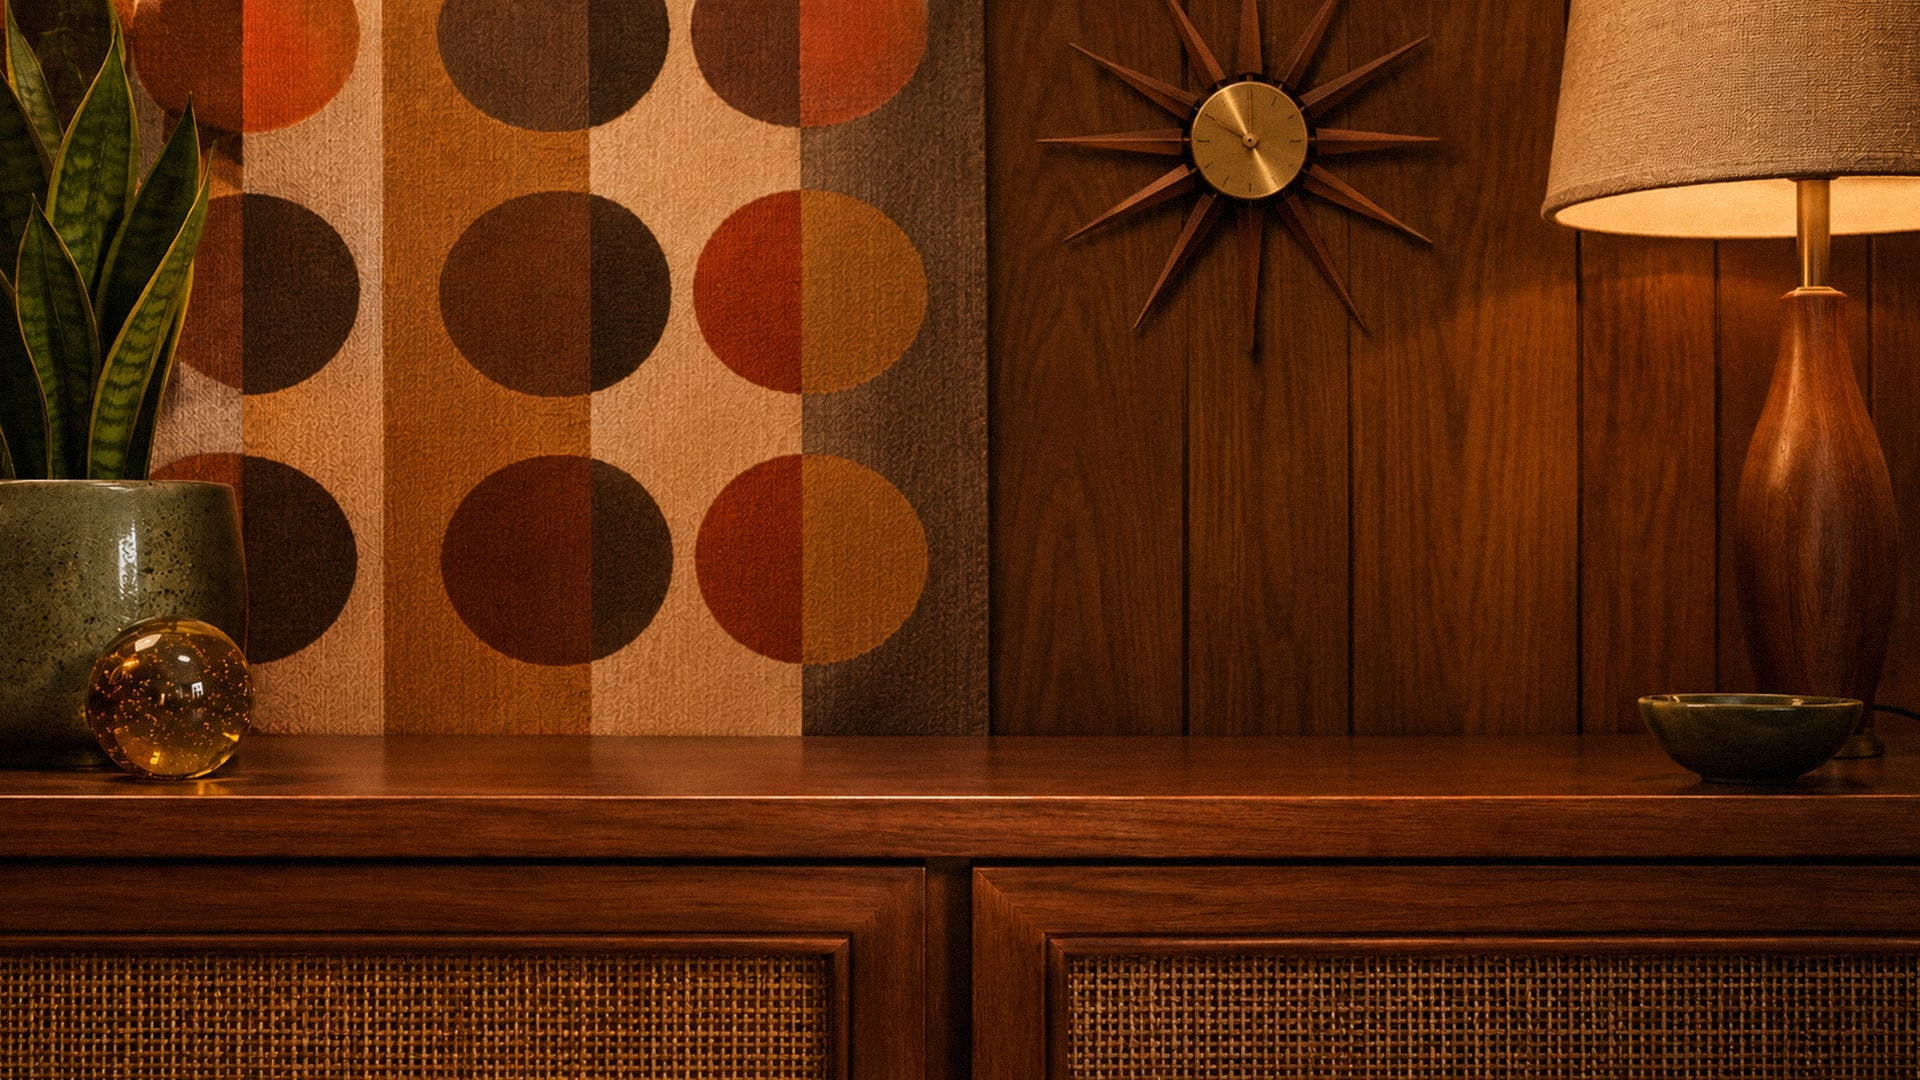
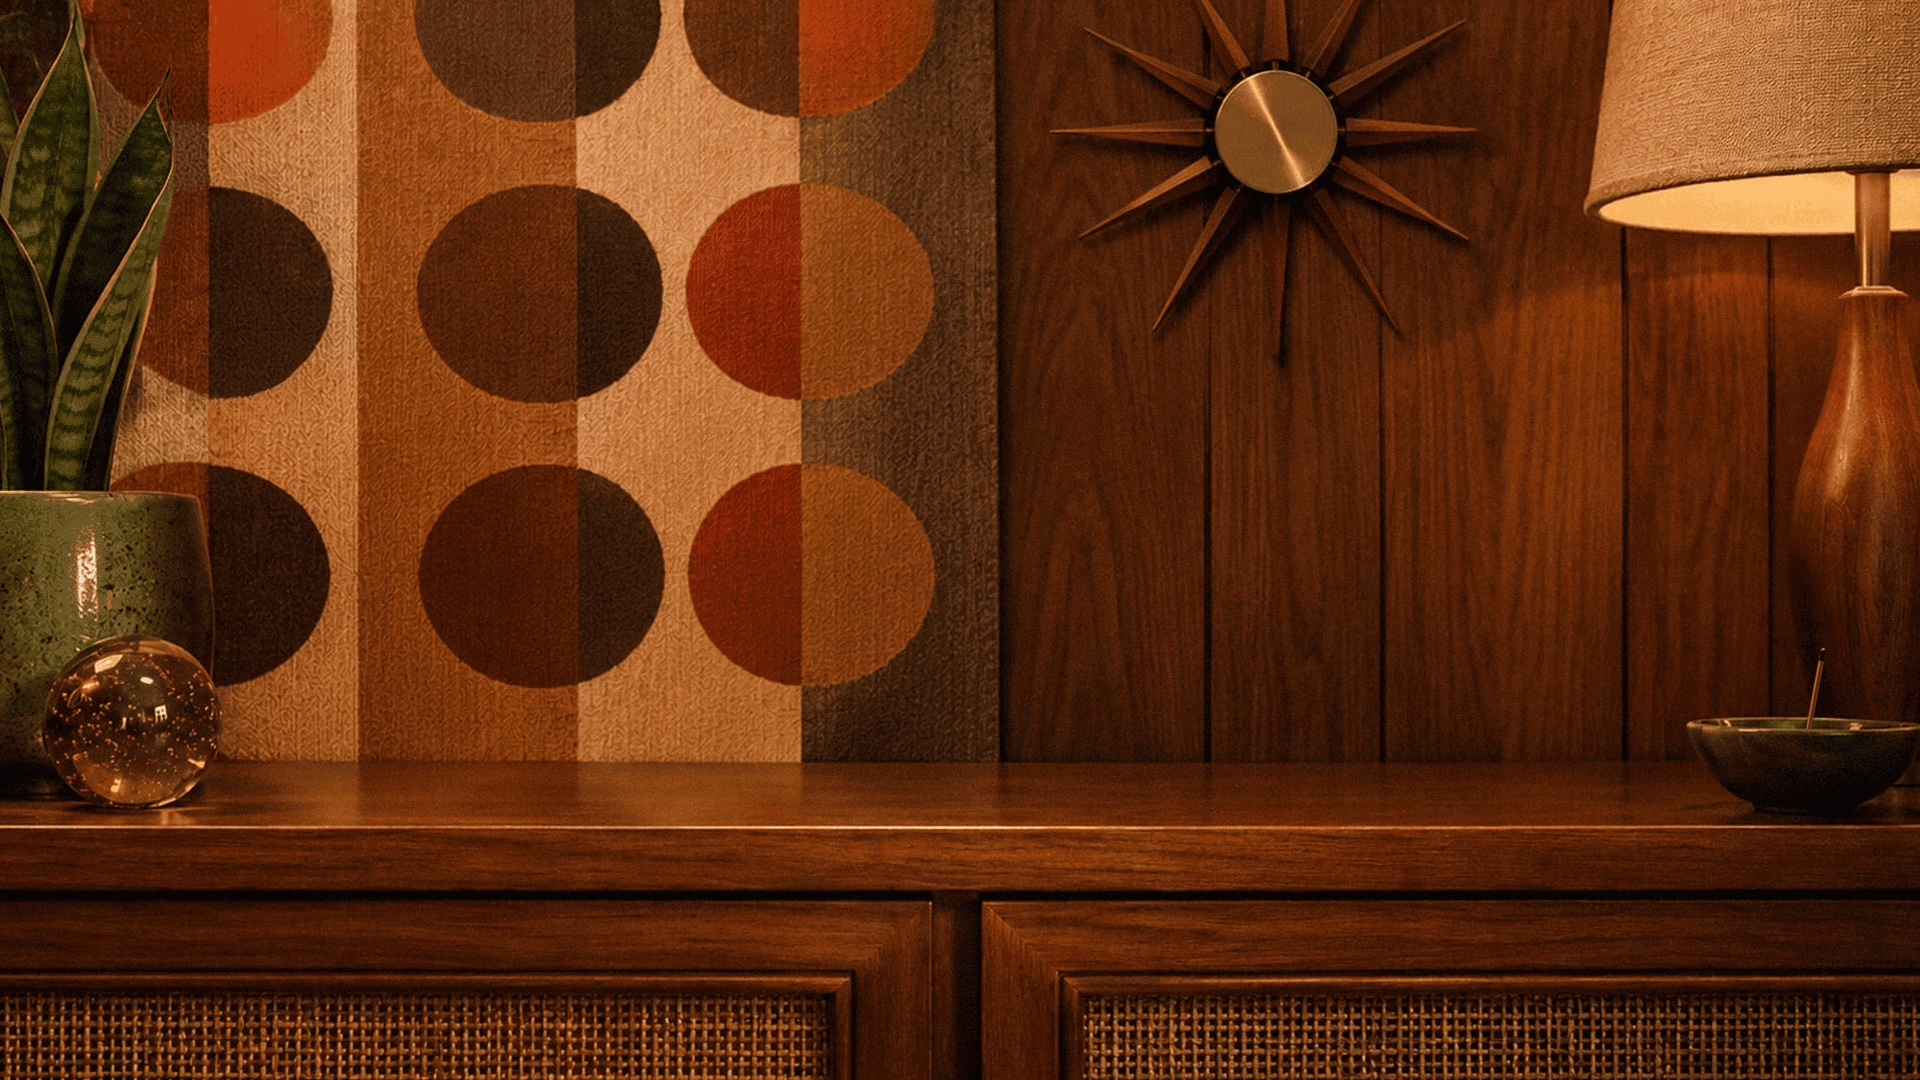
deploy: 2026-09-26 13:28

diff --git a/public/player/index.html b/public/player/index.html
@@ -64,6 +64,15 @@ html, body {
 #ticker-text { white-space: nowrap; font-family: monospace; font-size: 14px; text-transform: uppercase; letter-spacing: 0.15em; color: #23bf91; text-shadow: 0 0 8px rgba(35,191,145,0.6); line-height: 1; }
 #tuner-tick { position: absolute; top: 133px; width: 4px; height: 38px; background: #ff3333; z-index: 3; transition: left 0.6s cubic-bezier(0.25,0.1,0.25,1); box-shadow: 1px 2px 4px rgba(0,0,0,0.55), 0 1px 2px rgba(0,0,0,0.35); }
 #faceplate { position: absolute; left: 0; top: 0; width: 1280px; height: 443px; z-index: 2; pointer-events: none; display: block; }
+/* Backdrop scene decor — real-time wall clock + incense smoke. Only meaningful in
+   Backdrop Mode (the room scene); popout mode hides the whole backdrop already,
+   so these ride along with it. */
+#clock-hand-hour, #clock-hand-minute { position: absolute; left: 1267px; top: 123px; width: 18px; height: auto; transform-origin: 9px 9px; pointer-events: none; }
+#clock-hand-hour { z-index: 1; }
+#clock-hand-minute { z-index: 2; }
+#clock-hub { position: absolute; left: 1263px; top: 119px; width: 26px; height: 26px; z-index: 3; pointer-events: none; }
+#incense-smoke { position: absolute; left: 1702px; top: 250px; width: 240px; height: 420px; z-index: 1; pointer-events: none; }
+#scene.popout-mode .backdrop-fx { display: none !important; }
 </style>
 </head>
 <body oncontextmenu="return false;">
@@ -98,6 +107,10 @@ html, body {
     <div class="hit" id="hz-mono"          style="left:416px;top:343px;width:28px;height:27px"></div>
     <div class="hit" id="hz-power"         style="left:1130px;top:293px;width:30px;height:28px"></div>
     </div>
+    <img id="clock-hand-hour" class="backdrop-fx" src="./wjrn-clock-hand-small.png" alt="">
+    <img id="clock-hand-minute" class="backdrop-fx" src="./wjrn-clock-hand-large.png" alt="">
+    <img id="clock-hub" class="backdrop-fx" src="./wjrn-clock-centerpoint.png" alt="">
+    <canvas id="incense-smoke" class="backdrop-fx" width="240" height="420"></canvas>
   </div>
 </div>
 <script>
@@ -340,6 +353,83 @@ function drawVU() {
   ctx.lineWidth = 2;
   ctx.stroke();
 }
+
+// ── ANALOG WALL CLOCK (backdrop scene — real viewer-device time) ──────────────
+// Hand art's neutral (0deg) pose points straight down (pivot dot near the top of
+// each image), i.e. 180deg in standard clockface-degree terms (0=12, measured
+// clockwise) — so the CSS rotation needed is always (clockAngle - 180). Angles
+// are computed fresh each tick (no CSS transition) rather than incrementally, so
+// there's nothing to snap backward through at the 59->0 minute/hour wrap.
+function updateClockHands() {
+  var now = new Date();
+  var h = now.getHours() % 12;
+  var m = now.getMinutes();
+  var s = now.getSeconds();
+  var minuteHand = document.getElementById('clock-hand-minute');
+  var hourHand = document.getElementById('clock-hand-hour');
+  if (minuteHand) minuteHand.style.transform = 'rotate(' + ((6 * m + 0.1 * s) - 180) + 'deg)';
+  if (hourHand) hourHand.style.transform = 'rotate(' + ((30 * h + 0.5 * m) - 180) + 'deg)';
+}
+updateClockHands();
+setInterval(updateClockHands, 1000);
+
+// ── INCENSE SMOKE (backdrop scene) ────────────────────────────────────────────
+// Lightweight canvas particle wisp: soft radial-gradient puffs spawned at the
+// incense tip, drifting upward with sine wobble, growing and fading over their
+// lifetime. Purely decorative — runs independent of audio/playback state.
+(function() {
+  var canvas = document.getElementById('incense-smoke');
+  if (!canvas) return;
+  var ctx = canvas.getContext('2d');
+  var W = canvas.width, H = canvas.height;
+  var originX = W / 2, originY = H - 4;
+  var particles = [];
+  var lastSpawn = 0;
+
+  function spawnParticle(ts) {
+    particles.push({
+      x: originX + (Math.random() * 6 - 3),
+      wobblePhase: Math.random() * Math.PI * 2,
+      wobbleSpeed: 0.5 + Math.random() * 0.5,
+      radius: 3 + Math.random() * 2,
+      maxRadius: 20 + Math.random() * 14,
+      alpha: 0.16 + Math.random() * 0.08,
+      born: ts,
+      life: 3200 + Math.random() * 1800
+    });
+  }
+
+  function drawSmoke(ts) {
+    requestAnimationFrame(drawSmoke);
+    if (!lastSpawn) lastSpawn = ts;
+    if (ts - lastSpawn > 220) {
+      spawnParticle(ts);
+      lastSpawn = ts;
+    }
+    ctx.clearRect(0, 0, W, H);
+    for (var i = particles.length - 1; i >= 0; i--) {
+      var p = particles[i];
+      var age = ts - p.born;
+      var t = age / p.life;
+      if (t >= 1) { particles.splice(i, 1); continue; }
+      var riseY = t * (H - 40);
+      var wob = Math.sin(p.wobblePhase + age * 0.0016 * p.wobbleSpeed * 10) * (10 + t * 26);
+      var x = p.x + wob;
+      var y = originY - riseY;
+      var r = p.radius + t * p.maxRadius;
+      var alpha = p.alpha * (t < 0.15 ? t / 0.15 : (1 - (t - 0.15) / 0.85));
+      if (alpha <= 0) continue;
+      var grad = ctx.createRadialGradient(x, y, 0, x, y, r);
+      grad.addColorStop(0, 'rgba(214,208,198,' + (alpha * 0.9) + ')');
+      grad.addColorStop(1, 'rgba(214,208,198,0)');
+      ctx.fillStyle = grad;
+      ctx.beginPath();
+      ctx.arc(x, y, r, 0, Math.PI * 2);
+      ctx.fill();
+    }
+  }
+  requestAnimationFrame(drawSmoke);
+})();
 
 // ── TUNER TICK ────────────────────────────────────────────────────────────────
 function setTunerTick(freq) {
